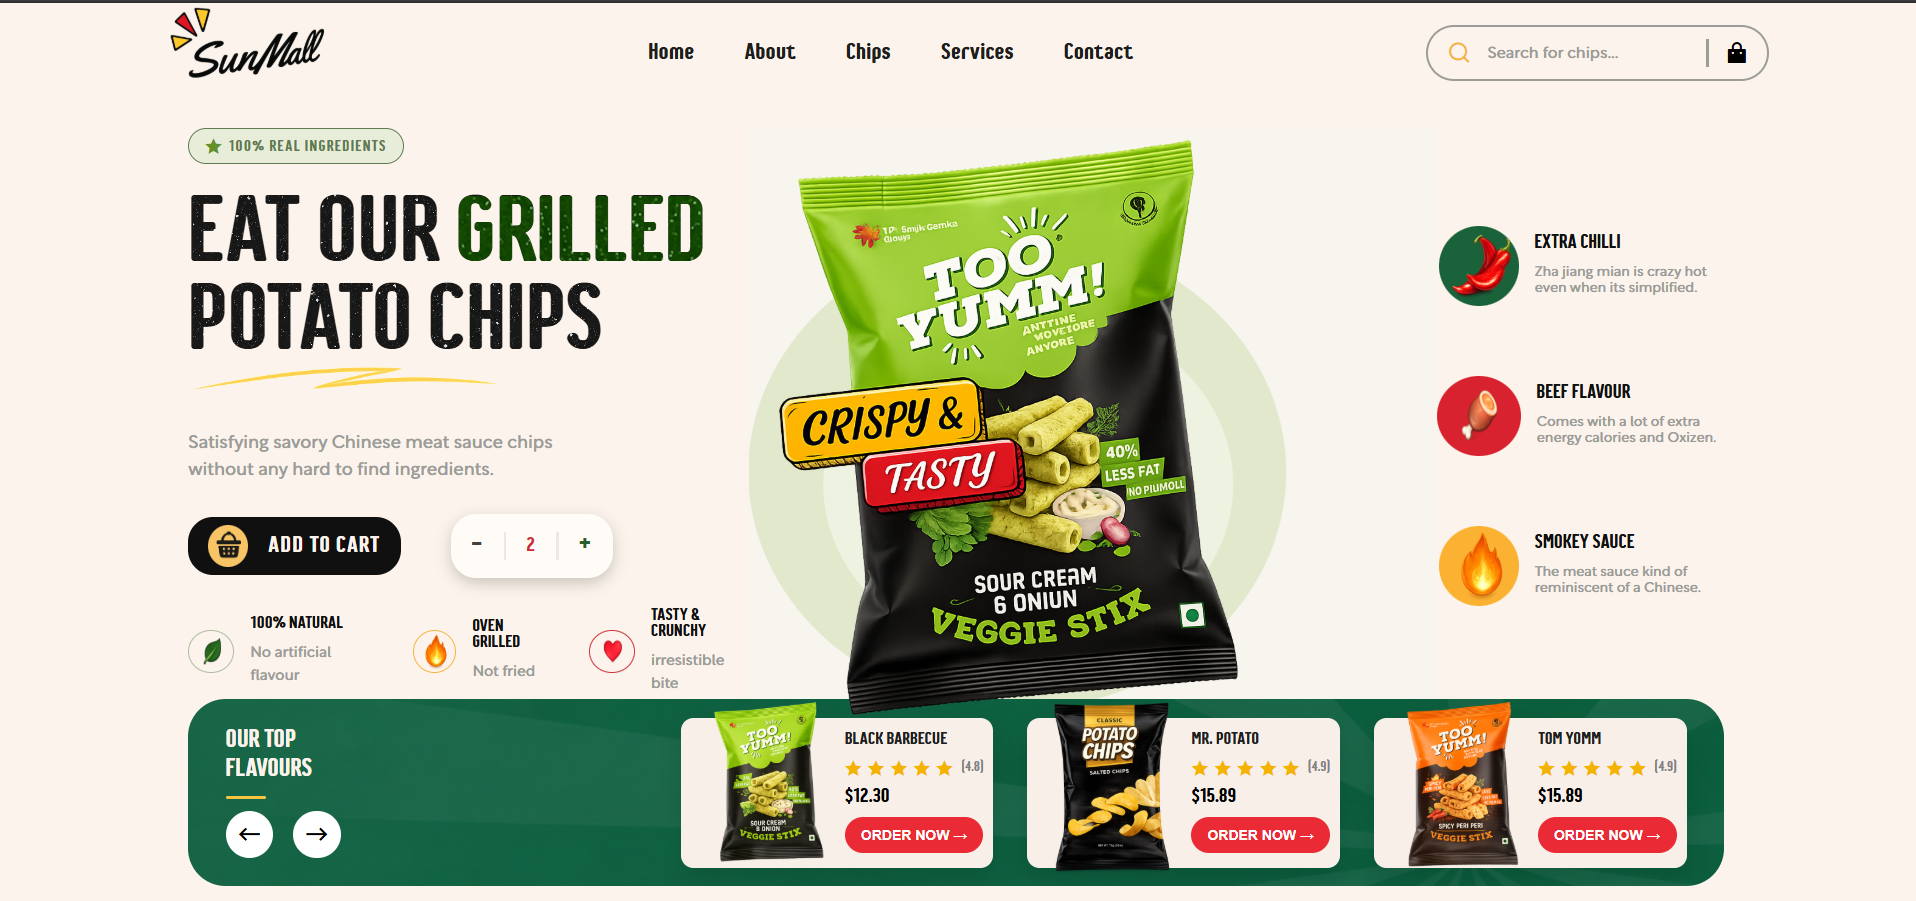
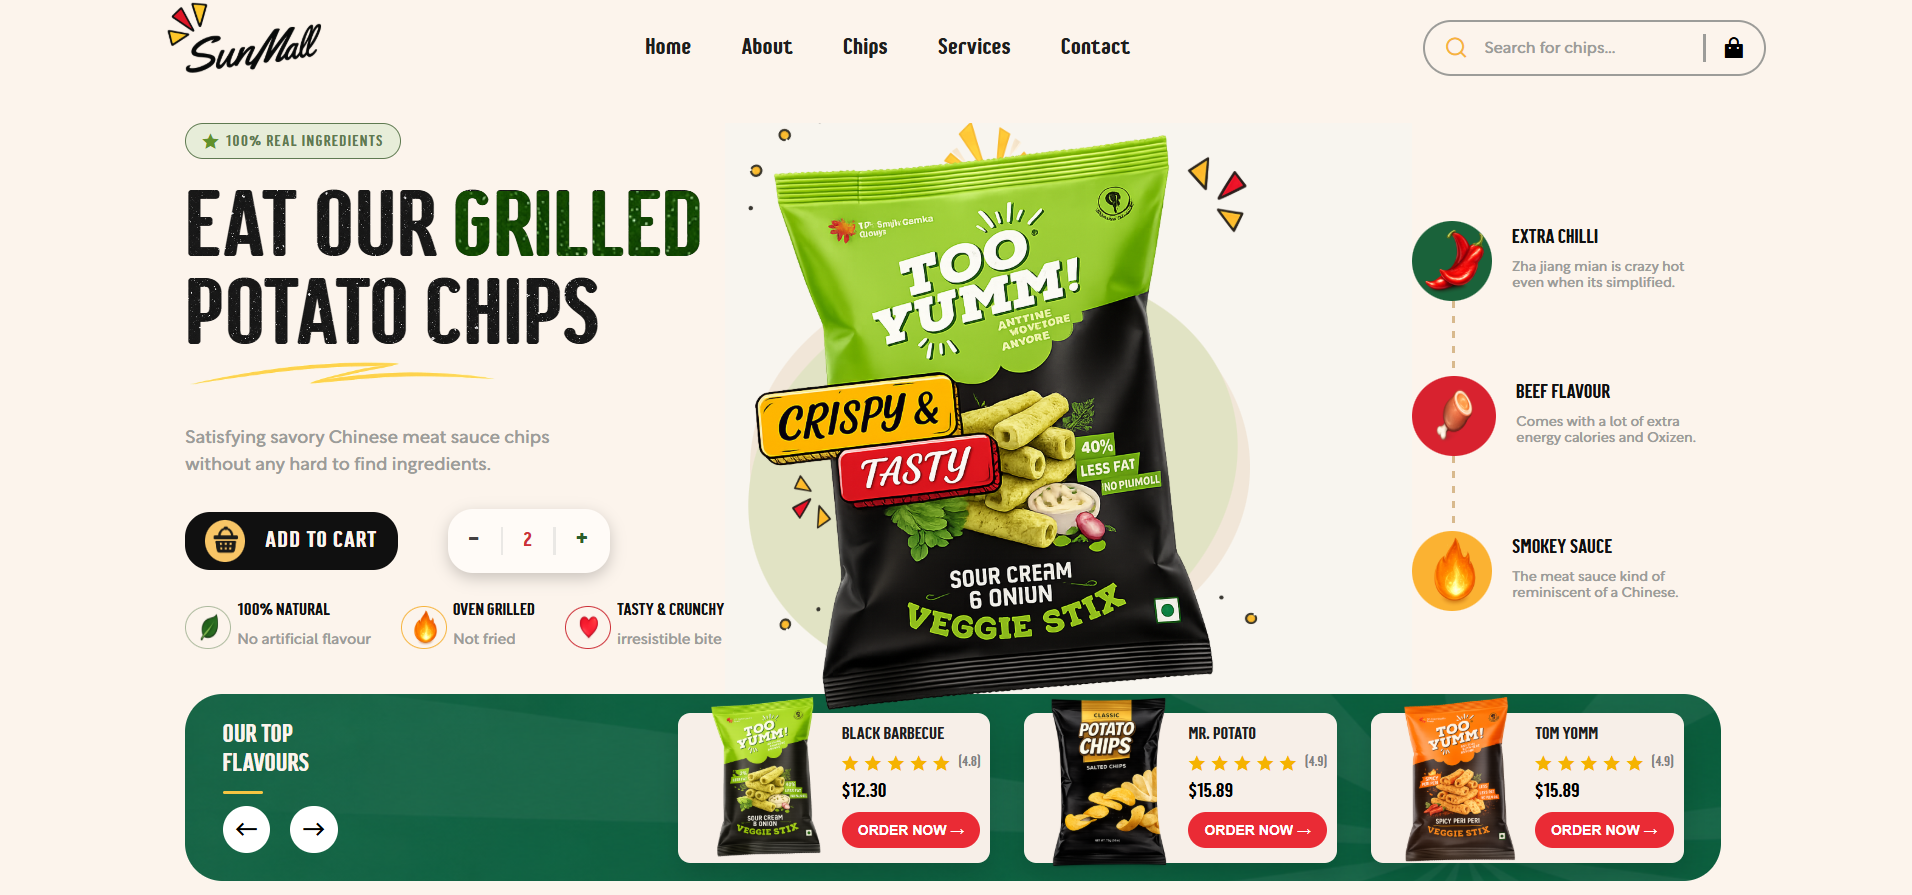
A3-Assignment Three

diff --git a/A3 - Assignment Three Food/style.css b/A3 - Assignment Three Food/style.css
@@ -188,13 +188,13 @@ h1 span {
 
 .product-info {
   display: flex;
-  gap: 2rem;
+  gap: 1.5rem;
 }
 .info {
   display: flex;
   align-items: center;
   justify-content: center;
-  gap: 0.8rem;
+  gap: 0.3rem;
 }
 .product-info .info img {
   height: 2.17rem;
@@ -240,14 +240,71 @@ h1 span {
   background: #f8f5ef;
   overflow: hidden;
 }
+#decrote-image-1 {
+  position: absolute;
+  height: 7rem;
+  width: 9rem;
+  top: 0;
+  left: 60%;
+}
+#decrote-image-2 {
+  position: absolute;
+  height: 5.3rem;
+  width: 8rem;
+  top: -4%;
+  left: 26%;
+}
+#decrote-image-3 {
+  position: absolute;
+  height: 3.9rem;
+  width: 5.5rem;
+  top: 4%;
+  left: -3%;
+  transform: rotate(240deg);
+}
+#decrote-image-4 {
+  position: absolute;
+  height: 5rem;
+  width: 6rem;
+  top: 48%;
+  left: 3%;
+  transform: rotate(180deg);
+  z-index: 9;
+}
+#decrote-image-5 {
+  position: absolute;
+  height: 3.5rem;
+  width: 5.5rem;
+  top: 66%;
+  left: 66%;
+  z-index: 2;
+}
+#decrote-image-6 {
+  position: absolute;
+  height: 3.5rem;
+  width: 5.5rem;
+  top: 66%;
+  left: 3%;
+  z-index: 2;
+  transform: rotate(120deg);
+}
+#decrote-image-7 {
+  position: absolute;
+  height: 3.9rem;
+  width: 5.5rem;
+  top: -5.7%;
+  left: 3%;
+  transform: rotate(120deg);
+}
 
 .bg-circle {
   position: absolute;
-  width: 430px;
-  height: 380px;
-  background: #dfe7c8;
+  width: 400px;
+  height: 320px;
+
+  background: #f0e4d5;
   border-radius: 50%;
-  left: 39%;
+  left: 40%;
   top: 50%;
   transform: translate(-50%, -50%);
   opacity: 0.9;
@@ -256,12 +313,25 @@ h1 span {
 .bg-circle::before {
   content: "";
   position: absolute;
-  width: 328px;
-  height: 280px;
-  background: #edf2df;
+  width: 400px;
+  height: 320px;
+  background: #dfe1bf;
   border-radius: 50%;
-  top: 60px;
-  left: 60px;
+  top: 7px;
+  left: -5px;
+  transform: rotate(160deg);
+}
+.dotted-line {
+  width: 2px;
+  height: 60px;
+  margin-left: 2rem;
+  background: repeating-linear-gradient(
+    to bottom,
+    #d8b98d 0px,
+    #d8b98d 6px,
+    transparent 6px,
+    transparent 12px
+  );
 }
 
 .packet {
@@ -275,9 +345,15 @@ h1 span {
 .flavour {
   display: flex;
   flex-direction: column;
+  align-items: flex-start;
+
+  justify-content: center;
   margin-top: 10%;
-  gap: 3.5rem;
+  /* gap: 3.5rem; */
   width: fit-content;
+}
+.flavour .info {
+  gap: 1rem;
 }
 .flavour img {
   height: 4rem;

diff --git a/A3 - Assignment Three Food/index.html b/A3 - Assignment Three Food/index.html
@@ -94,6 +94,41 @@
       </section>
       <section class="right-section">
         <div class="container">
+          <img
+            id="decrote-image-1"
+            src="./Images/decrote-image.png"
+            alt="decrote-image-1"
+          />
+          <img
+            id="decrote-image-2"
+            src="./Images/decrote-image-2.png"
+            alt="decrote-image-2"
+          />
+          <img
+            id="decrote-image-3"
+            src="./Images/decrote-things-image.png"
+            alt="decrote-image-3"
+          />
+          <img
+            id="decrote-image-4"
+            src="./Images/decrote-image.png"
+            alt="decrote-image-1"
+          />
+          <img
+            id="decrote-image-5"
+            src="./Images/decrote-things-image.png"
+            alt="decrote-image-3"
+          />
+          <img
+            id="decrote-image-6"
+            src="./Images/decrote-things-image.png"
+            alt="decrote-image-3"
+          />
+          <img
+            id="decrote-image-7"
+            src="./Images/decrote-things-image.png"
+            alt="decrote-image-3"
+          />
           <div class="bg-circle"></div>
 
           <img src="./Images/too-yumm-image.png" alt="packet" class="packet" />
@@ -108,6 +143,8 @@
             </div>
           </div>
 
+          <div class="dotted-line"></div>
+
           <div class="info" id="flavour-2">
             <img src="./Images/non-veggie-icon.png" alt="non-veggie-icon" />
             <div class="details">
@@ -115,6 +152,8 @@
               <p>Comes with a lot of extra energy calories and Oxizen.</p>
             </div>
           </div>
+
+          <div class="dotted-line"></div>
 
           <div class="info" id="flavour-3">
             <img src="./Images/fire-image-icon.png" alt="fire-image-icon" />